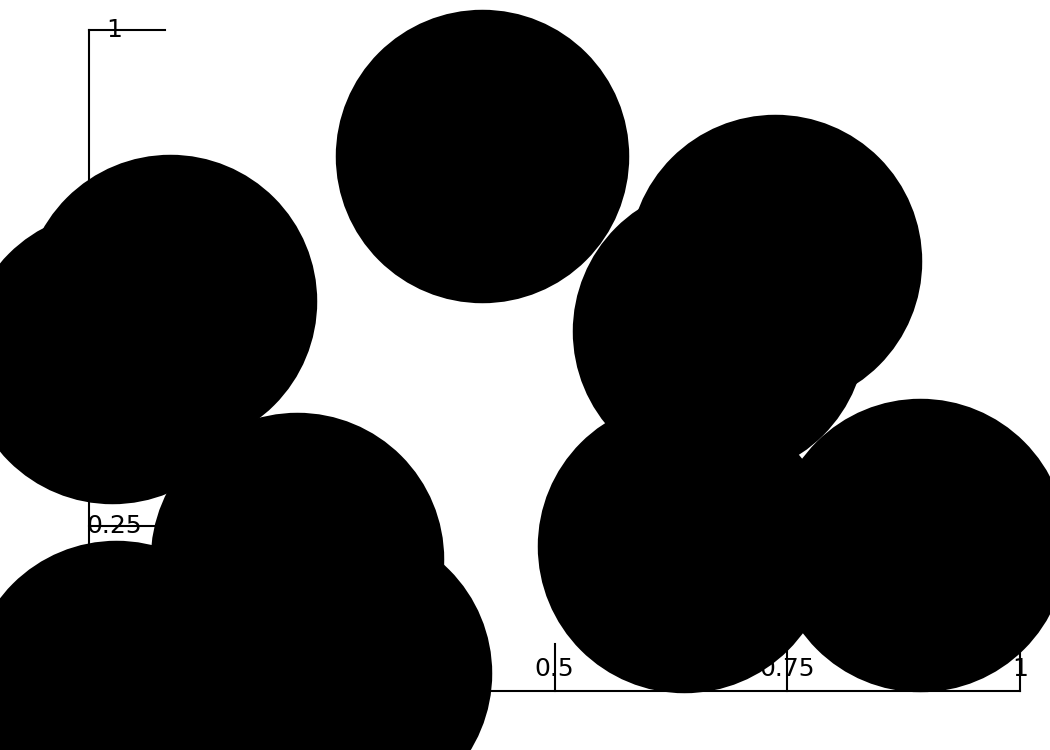
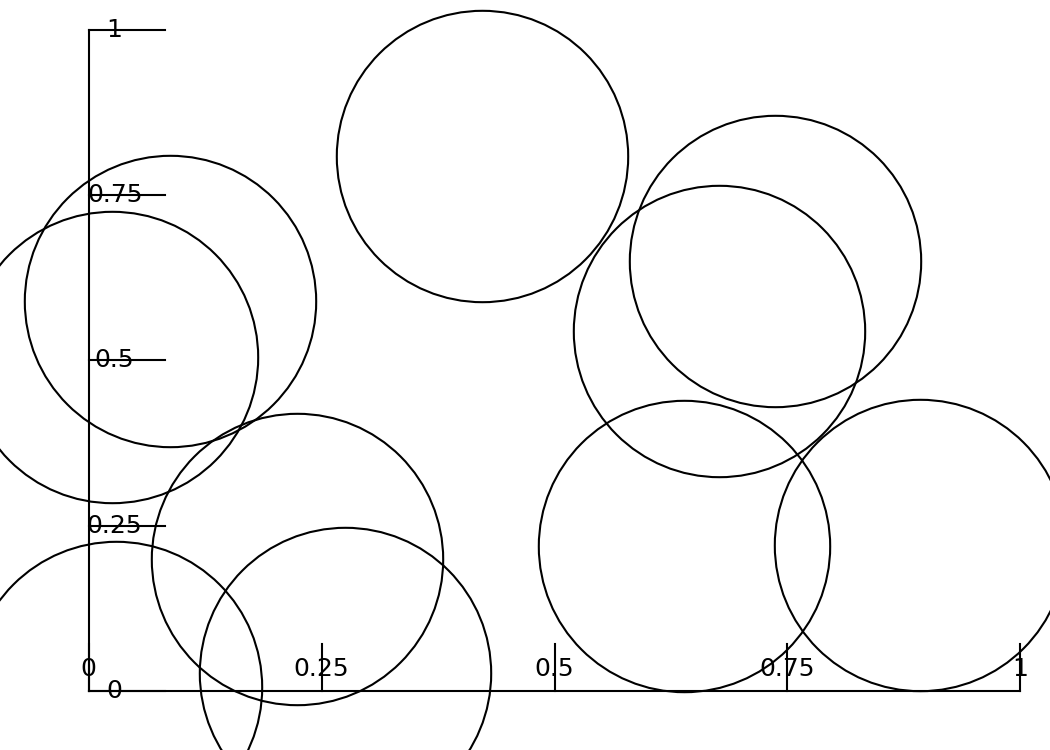
docs: faithfully translate R README example to Python
- Replace custom examples with direct translation of R's pointsGrob +
  axes scatter plot demo
- Regenerate plot image with corrected open-circle rendering (pch=1)
- Remove invented combine/filter examples (available in docs/python/)

diff --git a/README.md b/README.md
@@ -20,15 +20,17 @@ pip install gtable-r2py
 
 **Requires:** Python >= 3.10, [grid-r2py](https://github.com/chansigit/grid-r2py) >= 0.1.0
 
-### Example: build a plot layout from scratch
+### Example
 
-This is the Python equivalent of the R example at the bottom of this README —
-building a scatter plot with axes using low-level grid primitives:
+While most people will interact with gtable through higher-level plotting
+libraries, it is possible to build a plot from the ground up. This is the
+Python equivalent of the R example below:
 
 ```python
 import random
 import grid_r2py as grid
 from grid_r2py import Unit, PointsGrob, XAxisGrob, YAxisGrob
+from grid_r2py.backend.matplotlib import MatplotlibBackend
 from gtable_r2py import gtable, gtable_add_grob
 
 # Construct some graphical elements using grid
@@ -62,41 +64,6 @@ grid.save("plot.png")
 ```
 
 <img src="man/figures/README-python-example-1.png" alt="A scatter plot with axes built from scratch using gtable-r2py and grid-r2py" width="100%" />
-
-### Example: combine multiple tables
-
-```python
-from grid_r2py import Unit, RectGrob, CircleGrob
-
-from gtable_r2py import gtable_col, gtable_cbind, gtable_add_padding
-
-# Create two single-column tables
-left = gtable_col("left", [RectGrob(name="a"), RectGrob(name="b")])
-right = gtable_col("right", [CircleGrob(name="c"), CircleGrob(name="d")])
-
-# Join horizontally and add padding
-combined = gtable_cbind(left, right)
-gtable_add_padding(combined, Unit(0.5, "cm"))
-
-combined
-# TableGrob (4 x 4) 'left': 4 grobs
-```
-
-<img src="man/figures/README-python-example-2.png" alt="Two single-column gtables combined horizontally with padding" width="100%" />
-
-### Example: filter and inspect
-
-```python
-from gtable_r2py import gtable_filter, gtable_trim
-
-# Keep only grobs whose names match a regex
-panels_only = gtable_filter(combined, r"^a|^c")
-
-# Remove matching grobs
-no_rects = gtable_filter(combined, "Rect", invert=True)
-```
-
-<img src="man/figures/README-python-example-3.png" alt="Filtered gtable showing only grobs matching the name pattern" width="100%" />
 
 ### Full API documentation
 
